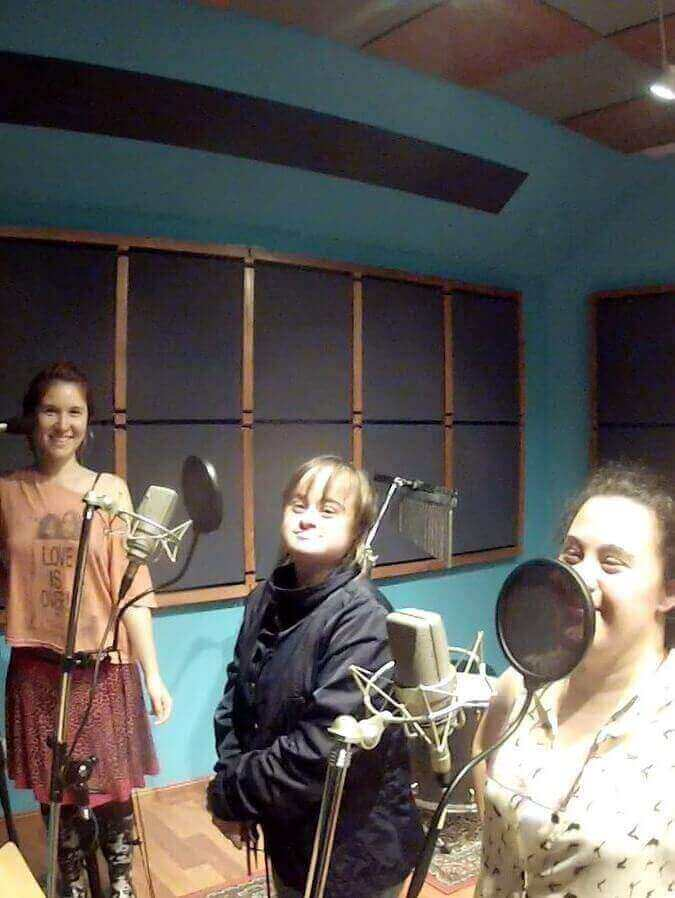
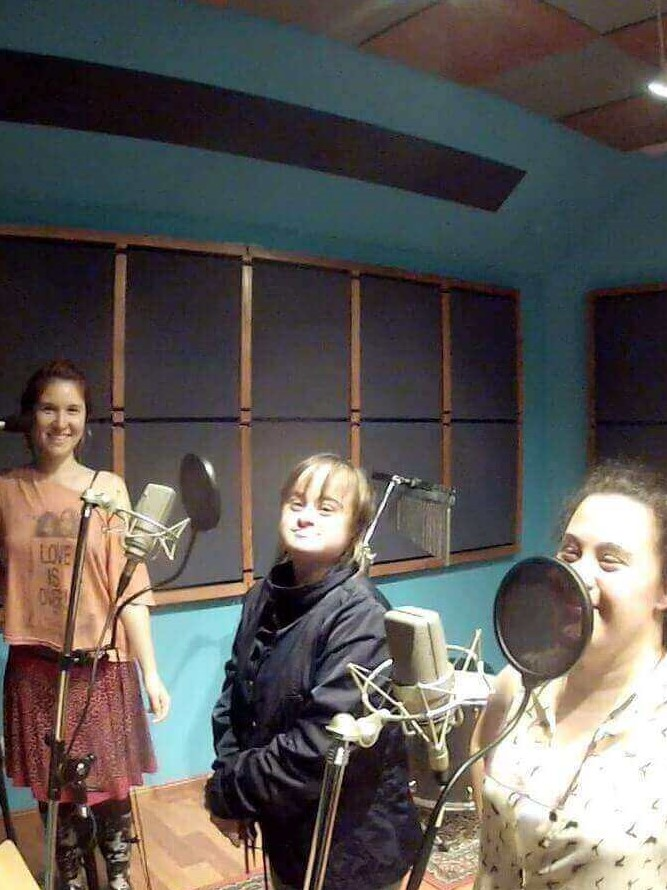
corrected issues and updated photos

diff --git a/css/style.css b/css/style.css
@@ -58,7 +58,7 @@ li {
 header {
     position: sticky;
     top: 0;
-    z-index: 4;
+    z-index: 5;
     height: 50px;
     display: flex;
     justify-content: space-between;
@@ -364,8 +364,14 @@ section#formacionIntegral {
     font-weight: 800;
 }
 
+
+.img-asesorias {
+    width: 280px;
+    position: relative;
+    z-index: 2;
+}
+
 .img-inscripciones-abiertas,
-.img-asesorias,
 .foto-formacion-int {
     width: 80%;
     position: relative;
@@ -545,6 +551,11 @@ section#consultoriaVoz {
 }
 
 div.container-consultas-consultoria {
+    position: relative;
+    z-index: 4;
+}
+
+video#video-inmersiva {
     position: relative;
     z-index: 4;
 }

diff --git a/index.php b/index.php
@@ -392,9 +392,9 @@ get_header();
 			<img src="<?php echo get_template_directory_uri(); ?>/img/mobile/trazo-scotch-uno.svg" class="trazo-scotch-tres" id="scotch-cierre-gruesa-1" loading="lazy">
 			<img src="<?php echo get_template_directory_uri(); ?>/img/mobile/trazo-scotch-tres.svg" class="trazo-scotch-tres" id="scotch-cierre-fina-1" loading="lazy">
 			<img src="<?php echo get_template_directory_uri(); ?>/img/mobile/foto-final-01.jpeg" class="fotoGaleriaServicios" loading="lazy">
-			<img src="<?php echo get_template_directory_uri(); ?>/img/mobile/foto-final-4.jpeg" class="fotoGaleriaServicios" loading="lazy">
+			<img src="<?php echo get_template_directory_uri(); ?>/img/mobile/foto-final-4b.jpeg" class="fotoGaleriaServicios" loading="lazy">
 			<img src="<?php echo get_template_directory_uri(); ?>/img/mobile/foto-final-03.jpeg" class="fotoGaleriaServicios" loading="lazy">
-			<img src="<?php echo get_template_directory_uri(); ?>/img/mobile/foto-final-5.jpeg" class="fotoGaleriaServicios" loading="lazy">
+			<img src="<?php echo get_template_directory_uri(); ?>/img/mobile/foto-final-5b.jpeg" class="fotoGaleriaServicios" loading="lazy">
 			<img src="<?php echo get_template_directory_uri(); ?>/img/mobile/foto-final-05.jpeg" class="fotoGaleriaServicios" loading="lazy">
 			<img src="<?php echo get_template_directory_uri(); ?>/img/mobile/trazo-scotch-dos.svg" class="trazo-scotch-cuatro" id="scotch-cierre-gruesa-2" loading="lazy">
 			<img src="<?php echo get_template_directory_uri(); ?>/img/mobile/trazo-scotch-cuatro.svg" class="trazo-scotch-cuatro" id="scotch-cierre-fina-2" loading="lazy">
